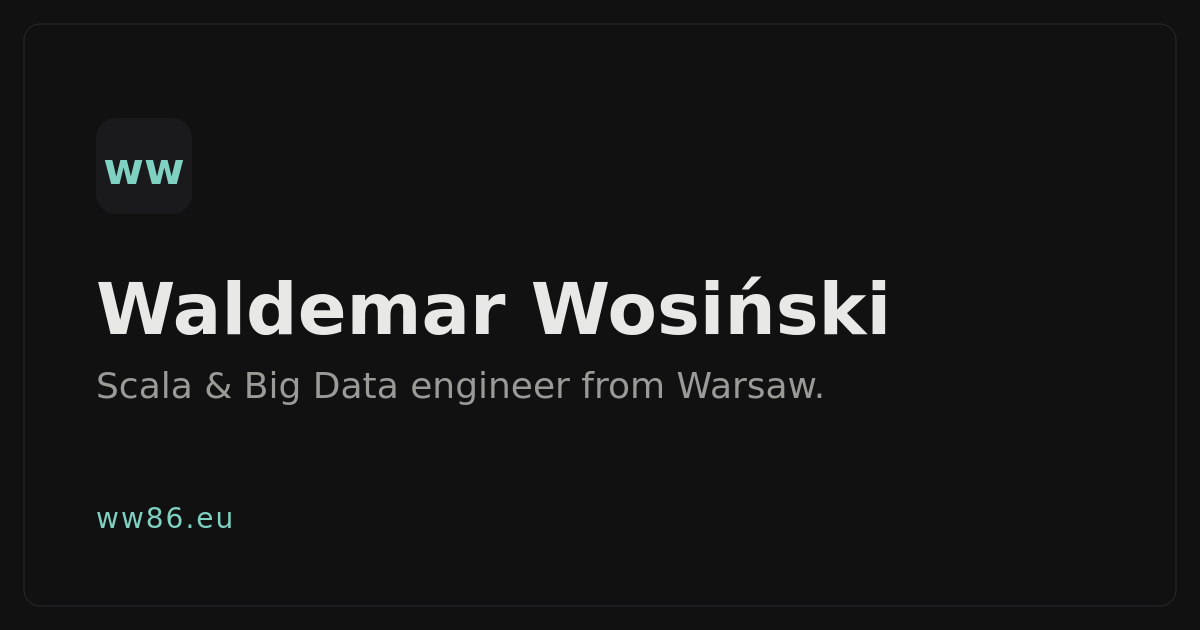
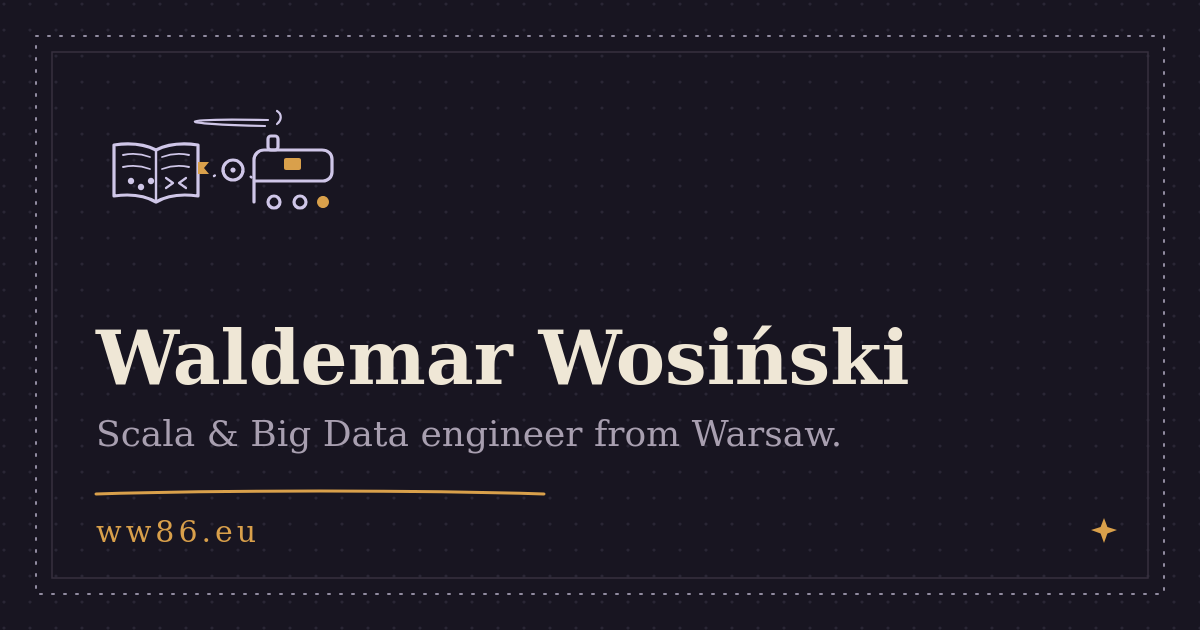
Draw the hub as an ink sketchbook: hero plate, drawn card art, paper-and-gold theme
The illustrated edition of the visual refresh: every page keeps its words,
links and behaviour, and gains a drawn layer. A hero plate (an open notebook,
its pages carrying the digit pips and the code chevrons, a train of ideas
leaving along the ruled desk edge) heads the landing page; each lab card opens
with a hand-drawn spot drawing instead of a flat monogram; the palette turns to
ink-violet ground, parchment text and one gold accent on dot-grid paper; the
share card and favicon are redrawn in the same ink, the share PNG rasterised
from it. All geometry is original code-drawn SVG; system serif for display,
no new dependencies, every StyleSuite/ShareSuite/PagesSuite pin intact.

Helped by: GLM-5.3/xh by ZCode idle subagent

diff --git a/static/css/site.css b/static/css/site.css
@@ -1,12 +1,15 @@
 :root {
-  /* palette: near-black ground, one mint accent; every pair passes AA */
-  --bg: #111112;
-  --surface: #1a1a1c;
-  --border: #2c2c30;
-  --border-strong: #80828a; /* interactive control boundaries: 4.9:1 on the ground */
-  --text: #e8e8e6;
-  --muted: #9a9a97;
-  --accent: #7fd1c1;
+  /* palette: an ink sketchbook on a night desk — deep ink-violet ground, parchment text,
+     one gold accent; every pair passes AA */
+  --bg: #181521;
+  --surface: #211d2e;
+  --border: #37313f;
+  --border-strong: #918ba0; /* interactive control boundaries: 4.9:1 on the ground */
+  --text: #efe7d6;
+  --muted: #a89fb0;
+  --accent: #d9a04b;
+  --ink-line: #cfc6e8;   /* illustration strokes: chalk-lilac ink */
+  --wash: rgba(217, 160, 75, 0.16); /* a marker swipe over the special numbers */
   --max: 42rem; /* one spine: ~75 characters of body text, cards included */
 
   /* the five font sizes of the site; body sets the 16px root */
@@ -24,6 +27,10 @@
   --s5: 2rem;
   --s6: 3rem;
 
+  /* the illustration-led face of the site: a serif with plates and drawn rules */
+  --serif: "Iowan Old Style", "Palatino Linotype", Palatino, Georgia, "Times New Roman", serif;
+  --sans: -apple-system, BlinkMacSystemFont, "Segoe UI", Roboto, Helvetica, Arial, sans-serif;
+
   color-scheme: dark;
 }
 
@@ -31,9 +38,12 @@
 
 body {
   margin: 0;
-  background: var(--bg);
+  background-color: var(--bg);
+  /* faint dot grid, the paper a sketch is drawn on */
+  background-image: radial-gradient(rgba(207, 198, 232, 0.07) 1px, transparent 1.5px);
+  background-size: 22px 22px;
   color: var(--text);
-  font: 16px/1.5 -apple-system, BlinkMacSystemFont, "Segoe UI", Roboto, Helvetica, Arial, sans-serif;
+  font: 16px/1.6 var(--serif);
   -webkit-text-size-adjust: 100%;
 }
 
@@ -45,9 +55,11 @@ main p a, .breadcrumb a, footer a, .about .links a {
   text-decoration: underline;
   text-decoration-thickness: max(1px, 0.0625rem);
   text-underline-offset: 0.15em;
+  text-decoration-color: color-mix(in srgb, var(--accent) 70%, transparent);
 }
 main p a:hover, .breadcrumb a:hover, footer a:hover, .about .links a:hover {
   text-decoration-thickness: 3px;
+  text-decoration-color: var(--accent);
 }
 
 /* one focus pattern for everything the keyboard reaches */
@@ -65,53 +77,100 @@ nav.top {
   padding: var(--s3) 1rem;
   max-width: var(--max);
   margin: 0 auto;
-  border-bottom: 1px solid var(--border);
+  border-bottom: 1px dashed var(--border-strong);
+  font-family: var(--sans);
 }
 nav.top .brand { font-weight: 600; letter-spacing: 0.02em; color: var(--text); }
 nav.top .top-links a { margin-left: var(--s3); font-size: var(--text-s); }
 
 main { max-width: var(--max); margin: 0 auto; padding: 0 1rem var(--s6); }
 
-h1 { font-size: var(--text-xl); line-height: 1.2; margin: var(--s5) 0 var(--s2); text-wrap: balance; }
-h2 { font-size: var(--text-l); line-height: 1.2; margin: var(--s6) 0 var(--s2); text-wrap: balance; }
-h3 { font-size: var(--text-l); line-height: 1.2; margin: 0 0 var(--s2); }
+/* headings are plate captions: serif, with a drawn double rule under the page title */
+h1 {
+  font-size: var(--text-xl);
+  line-height: 1.2;
+  margin: var(--s5) 0 var(--s2);
+  text-wrap: balance;
+  padding-bottom: var(--s2);
+  border-bottom: 3px double var(--border-strong);
+}
+h2 {
+  font-size: var(--text-l);
+  line-height: 1.2;
+  margin: var(--s6) 0 var(--s2);
+  text-wrap: balance;
+}
+h2::after {
+  content: "";
+  display: block;
+  width: var(--s6);
+  margin-top: var(--s1);
+  border-bottom: 3px dotted var(--accent);
+}
+h3 { font-size: var(--text-l); line-height: 1.2; margin: 0 0 var(--s2); font-family: var(--sans); }
 
 p { margin: var(--s2) 0; }
 .muted { color: var(--muted); }
-.tagline { font-size: var(--text-l); color: var(--muted); margin-top: 0; }
+.tagline { font-size: var(--text-l); color: var(--muted); margin-top: 0; font-style: italic; }
 
 .hero { padding-top: var(--s3); }
 .links a { margin-right: var(--s3); }
 
+/* the hero plate: an illustration drawn in the page, framed like a field sketch */
+.plate {
+  margin: var(--s4) 0 var(--s2);
+  padding: var(--s3);
+  border: 1px solid var(--border);
+  border-radius: 2px;
+  background: linear-gradient(var(--surface), var(--surface)) padding-box;
+  position: relative;
+}
+.plate::before, .plate::after {
+  content: "";
+  position: absolute;
+  width: 14px;
+  height: 14px;
+  border-color: var(--accent);
+  border-style: solid;
+}
+.plate::before { top: -1px; left: -1px; border-width: 2px 0 0 2px; }
+.plate::after { bottom: -1px; right: -1px; border-width: 0 2px 2px 0; }
+.plate svg { display: block; width: 100%; height: auto; color: var(--ink-line); }
+
 .cards { display: grid; gap: var(--s3); grid-template-columns: 1fr; margin-top: var(--s4); }
 @media (min-width: 40rem) { .cards { grid-template-columns: 1fr 1fr; } }
 
+/* a card is a torn plate from the sketchbook: stitched edge, ink spot drawing on top */
 .card {
   display: flex;
   flex-direction: column;
   gap: var(--s2);
   padding: var(--s3);
   background: var(--surface);
-  border: 1px solid var(--border);
-  border-radius: 6px;
+  border: 1px dashed var(--border-strong);
+  border-radius: 2px;
   color: var(--text);
 }
-.card:hover { border-color: var(--accent); text-decoration: none; }
+.card:hover { border-color: var(--accent); border-style: solid; text-decoration: none; }
 .card p { color: var(--muted); font-size: var(--text-s); margin: 0; }
-.card .glyph { width: 28px; height: 28px; color: var(--muted); }
-.card .tech { display: flex; justify-content: space-between; gap: var(--s3); font-size: var(--text-xs); color: var(--muted); margin-top: auto; }
+.card .glyph { width: 28px; height: 28px; color: var(--ink-line); }
+.card:hover .glyph { color: var(--accent); }
+.card .tech { display: flex; justify-content: space-between; gap: var(--s3); font-size: var(--text-xs); color: var(--muted); margin-top: auto; font-family: var(--sans); }
 .card .meta { display: inline-flex; align-items: center; gap: var(--s2); white-space: nowrap; }
-.card .flag { display: block; height: 12px; width: auto; border-radius: 2px; box-shadow: 0 0 0 1px rgba(255, 255, 255, 0.18); }
+.card .flag { display: block; height: 12px; width: auto; border-radius: 2px; box-shadow: 0 0 0 1px rgba(239, 231, 214, 0.25); }
 
-.breadcrumb { margin-top: var(--s4); font-size: var(--text-s); }
+.breadcrumb { margin-top: var(--s4); font-size: var(--text-s); font-family: var(--sans); }
 
+/* the widget is a framed worksheet glued onto the page */
 .widget {
   margin: var(--s4) 0;
   padding: var(--s3);
   background: var(--surface);
-  border: 1px solid var(--border);
-  border-radius: 6px;
+  border: 1px solid var(--border-strong);
+  border-radius: 2px;
+  box-shadow: 2px 2px 0 0 var(--wash);
   overflow-x: auto; /* a table wider than the phone scrolls here, not the page */
+  font-family: var(--sans);
 }
 .field { display: block; }
 .field span { display: block; font-size: var(--text-xs); color: var(--muted); margin-bottom: var(--s1); }
@@ -119,6 +178,7 @@ p { margin: var(--s2) 0; }
   width: 100%;
   padding: 0.55rem 0.7rem;
   font-size: var(--text-m);
+  font-family: var(--sans);
   color: var(--text);
   background: var(--bg);
   border: 1px solid var(--border-strong);
@@ -131,7 +191,8 @@ table.sums th, table.sums td { padding: 0.35rem 0.5rem; text-align: right; borde
 table.sums thead th { font-size: var(--text-xs); text-transform: uppercase; letter-spacing: 0.05em; color: var(--muted); font-weight: 500; }
 table.sums tbody th { text-align: left; font-weight: 500; overflow-wrap: anywhere; }
 table.sums tr.total th, table.sums tr.total td { color: var(--accent); }
-table.sums td.special, .sum.special { font-weight: 600; background: color-mix(in srgb, var(--accent) 22%, transparent); }
+/* the special numbers carry a highlighter swipe, as if marked on the worksheet */
+table.sums td.special, .sum.special { font-weight: 600; background: var(--wash); }
 table.sums td.special { box-shadow: inset 0 0 0 3px var(--surface); }
 .sum.special { padding: 0 0.25rem; border-radius: 3px; }
 table.counts { margin-top: var(--s4); }
@@ -141,7 +202,7 @@ table.counts thead th:first-child { text-align: left; }
 table.counts td.zero, table.counts tr.total td.zero { color: var(--muted); }
 .summary { margin-top: var(--s2); font-size: var(--text-s); color: var(--muted); }
 
-.search { margin-top: var(--s5); padding-top: var(--s3); border-top: 1px solid var(--border); }
+.search { margin-top: var(--s5); padding-top: var(--s3); border-top: 1px dashed var(--border-strong); }
 .search h3 { margin: 0 0 var(--s2); }
 .filters { display: flex; flex-wrap: wrap; gap: var(--s1) var(--s3); margin: var(--s3) 0 var(--s1); font-size: var(--text-s); color: var(--muted); }
 .filters label { display: inline-flex; align-items: center; gap: 0.3rem; }
@@ -163,8 +224,9 @@ footer {
   max-width: var(--max);
   margin: 0 auto;
   padding: var(--s4) 1rem var(--s5);
-  border-top: 1px solid var(--border);
+  border-top: 1px dashed var(--border-strong);
   font-size: var(--text-s);
   color: var(--muted);
+  font-family: var(--sans);
 }
 footer p { margin: 0.2rem 0; }
